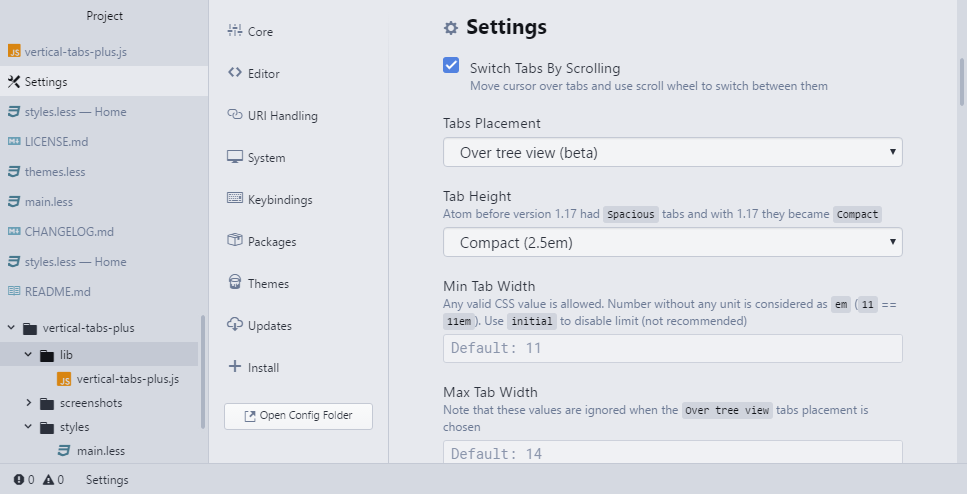
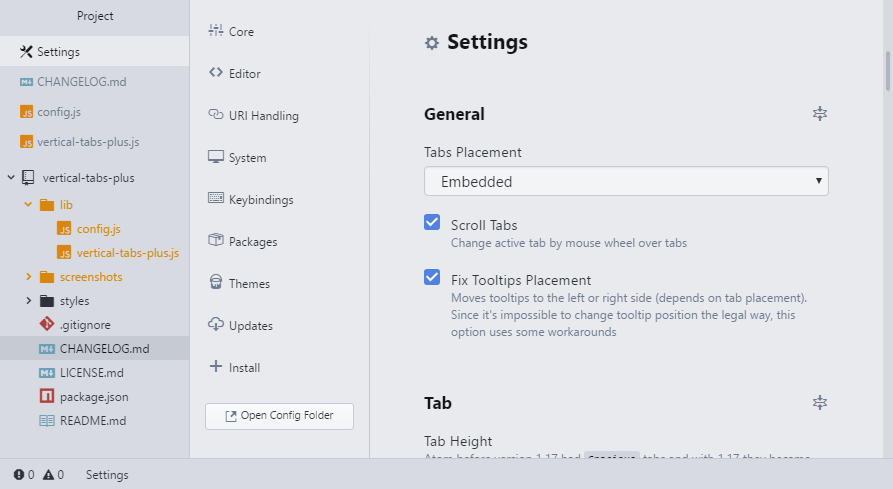
Minor internal changes
* Updated screenshots
* Renamed "Over project tree" tabs placement into "embedded" placement

diff --git a/lib/vertical-tabs-plus.js b/lib/vertical-tabs-plus.js
@@ -34,126 +34,6 @@ Controller = {
     });
   },
 
-  // /* --------------- */
-  // // Experiments with horizontal panes
-  // 'general.tabsPlacement'(value, oldValue) {
-  //   let
-  //     className = 'right-sided-tabs',
-  //     isPaneHorizontal = pane => pane.matches('.horizontal > .pane');
-  // 
-  //     // moveTab, moveTabsOverProjectTree, enableProjectTreeMode;
-  // 
-  //   if (value == 'tree-view') {
-  //     GUI.treeView.classList.add(ROOT_CLASS);
-  // 
-  //     Helper.forEachPane((pane, id) => {
-  //       let moveTabsOverProjectTree = () => {
-  //         delete pane.dataset.tabsPosition;
-  //         pane.classList.remove(ROOT_CLASS);
-  //         GUI.treeView.lastElementChild.insertAdjacentElement('beforeBegin', GUI.wrappers[id]);
-  //       };
-  // 
-  //       if (GUI.treeView) {
-  //         moveTabsOverProjectTree();
-  //       } else {
-  //         Helper
-  //           .waitForProjectTreePanel()
-  //           .then(moveTabsOverProjectTree);
-  //       }
-  //     });
-  //   } else if (oldValue == 'tree-view') {
-  //     GUI.treeView.classList.remove(ROOT_CLASS);
-  // 
-  //     Helper.forEachPane((pane, id) => {
-  //       pane.classList.add(ROOT_CLASS);
-  //       pane.insertAdjacentElement('afterBegin', GUI.wrappers[id]);
-  //     });
-  //   }
-  // 
-  // 
-  // 
-  // 
-  // 
-  // 
-  //   enableProjectTreeMode = (enable) => {
-  //     if (enable) {
-  //       GUI.treeView.classList.add(ROOT_CLASS);
-  //     } else {
-  //       GUI.treeView.classList.remove(ROOT_CLASS);
-  // 
-  //       Helper.forEachPane((pane, id) => {
-  //         pane.classList.add(ROOT_CLASS);
-  //         pane.insertAdjacentElement('afterBegin', GUI.wrappers[id]);
-  //       });
-  //     }
-  //   };
-  // 
-  //   movePaneTabsOverProjectTree = (pane, toProjectTree) => {
-  //     if (toProjectTree) {
-  //       delete pane.dataset.tabsPosition;
-  //       pane.classList.remove(ROOT_CLASS);
-  // 
-  //       // lastElementChild needs for multi panes. Last child is the tree-view itself
-  //       // Not Helper.forEachWrapper because of tabs order.
-  //       // ForEachPane uses API, forEachWrapper uses the package storage.
-  //       GUI.treeView.lastElementChild.insertAdjacentElement('beforeBegin', GUI.wrappers[id]);
-  //     } else {
-  //       pane.classList.add(ROOT_CLASS);
-  //       pane.insertAdjacentElement('afterBegin', GUI.wrappers[id]);
-  //     }
-  //   };
-  // 
-  //   moveTab = (direction) => {
-  //     if (value == 'tree-view') {
-  //     }
-  // 
-  //   };
-  // 
-  //   Helper.forEachPane(pane => {
-  //     pane.dataset.tabsPosition = value;
-  //   });
-  // 
-  //   if (value == 'tree-view') {
-  //     let moveTabsOverProjectTree = () => {
-  //       Helper.forEachPane((pane, id) => {
-  //         delete pane.dataset.tabsPosition;
-  //         pane.classList.remove(ROOT_CLASS);
-  // 
-  //         if (isPaneHorizontal(pane))
-  //           return;
-  // 
-  //         // lastElementChild needs for multi panes. Last child is the tree-view itself
-  //         // Not Helper.forEachWrapper because of tabs order.
-  //         // ForEachPane uses API, forEachWrapper uses the package storage.
-  //         GUI.treeView.lastElementChild.insertAdjacentElement('beforeBegin', GUI.wrappers[id]);
-  //       });
-  // 
-  //       GUI.treeView.classList.add(ROOT_CLASS);
-  //     };
-  // 
-  //     // Project tree view in case if tabs are going to be placed there.
-  //     // It's in init section not to make tabs blink when project tree is visible.
-  //     // It's here too not to make package crash when new window is created
-  //     // (Projcet tree is hidden there by default).
-  //     if (GUI.treeView) {
-  //       moveTabsOverProjectTree();
-  //     } else {
-  //       Helper
-  //         .waitForProjectTreePanel()
-  //         .then(moveTabsOverProjectTree);
-  //     }
-  // 
-  //   } else if (oldValue == 'tree-view') {
-  //     GUI.treeView.classList.remove(ROOT_CLASS);
-  // 
-  //     Helper.forEachPane((pane, id) => {
-  //       pane.classList.add(ROOT_CLASS);
-  //       pane.insertAdjacentElement('afterBegin', GUI.wrappers[id]);
-  //     });
-  //   }
-  // },
-
-
   /* --------------- */
   'general.tabsPlacement'(value, oldValue) {
     let

diff --git a/lib/config.js b/lib/config.js
@@ -12,7 +12,7 @@ export default {
         enum:    [
           {value: 'left', description: 'Left'},
           {value: 'right', description: 'Right'},
-          {value: 'tree-view', description: 'Over project tree'},
+          {value: 'tree-view', description: 'Embedded'},
         ],
         order:   1,
       },
@@ -23,20 +23,11 @@ export default {
         description: 'Change active tab by mouse wheel over tabs',
         order:       2,
       },
-
-      // forcedVTabs: {
-      //   title:       'Force vertical tabs for splitted panes',
-      //   type:        'boolean',
-      //   default:     false,
-      //   description: '**Off**: tabs stay horizontal when the workspace is splitted horizontally for the sake of saving space.\n\n**On**: tabs become vertical for every pane. Can be useful for huge screens.',
-      //   order:       3,
-      // },
-
       normalizeTooltips: {
-        title:       'Fix Tooltips Placement (Experimental)',
+        title:       'Fix Tooltips Placement',
         type:        'boolean',
         default:     true,
-        description: 'Moves tab tooltips to the left or right side. This option looks stable but if you\'re having some kind of issues like freezes when moving cursor over tabs or whatever, turn it off',
+        description: 'Moves tooltips to the left or right side (depends on tab placement). Since it\'s impossible to change tooltip position the legal way, this option uses some workarounds',
         order:       4,
       },
     },
@@ -56,7 +47,7 @@ export default {
           {value: '3.25em', description: 'Spacious (3.25em)'},
           {value: 'custom', description: 'Custom'},
         ],
-        description: 'Atom before version 1.17 had `Spacious` tabs and with 1.17 they became `Compact`',
+        description: 'Atom before version 1.17 had `Spacious` tabs and since 1.17 they became `Compact`',
         order:       1,
       },
       customHeight: {

diff --git a/README.md b/README.md
@@ -1,12 +1,12 @@
 # Vertical Tabs Plus package
-Makes tabs vertical. Fork from [tiger4th's vertical-tabs package](https://atom.io/packages/vertical-tabs).
+Makes tabs vertical and adds some extra features. Fork from [tiger4th's vertical-tabs package](https://atom.io/packages/vertical-tabs).
 
 ## Features
 
 ### Switch tabs by scrolling
 Move cursor over tabs and switch between them using scroll wheel. Inspired by the same named option of the Vivaldi browser.
 
-### Tabs placement: left, right, above project tree
+### Tabs placement: left, right, embedded (above project tree)
 Tabs can be placed on either left or right side of the main pane. It's also possible to shelter them above the project tree not to make it waste much space. Inspired by Adobe Brackets interface.
 
 ### Customizable tab width and height
@@ -34,7 +34,6 @@ npm ERR! fatal: tag 'v0.1.0' already exists
 
 ## Known problems:
 * When dragging tabs, the tab placeholder is displayed _above_ a tab if cursor is over left side of tab container. As it's displayed _below_ a tab for the right tab container side. It's natural behavior for horizontal tabs but looks weird for vertical ones. Sadly it's a not fixable problem.
-* When tabs are placed over project tree, a new window is created, and the "Reopen project" menu is used, both tabs and project tree just disappear. Atom throws an uncaught error that says `The workspace can only contain one instance of item [object Object]`. Technically it has nothing related to this package so I can't even catch or trace that error. If that happened to you and the project tree disappeared, just press `Ctrl / Cmd`+`Shift`+`F5` or enter "window reload" in the command palette.
 
 ## Screenshots
 Tabs on the left side:

diff --git a/CHANGELOG.md b/CHANGELOG.md
@@ -2,6 +2,8 @@
 
 #### 2.3.5 (12 Mar 2018)
 * **Fixed:** The package didn't process error properly in case of failed attaching tabs to project tree
+* Renamed "Over project tree" tabs placement into "embedded" placement
+* Minor internal changes
 
 #### 2.3.4 (24 Nov 2017)
 * **Fixed:** Max tab container height didn't work properly with multiple panes.
